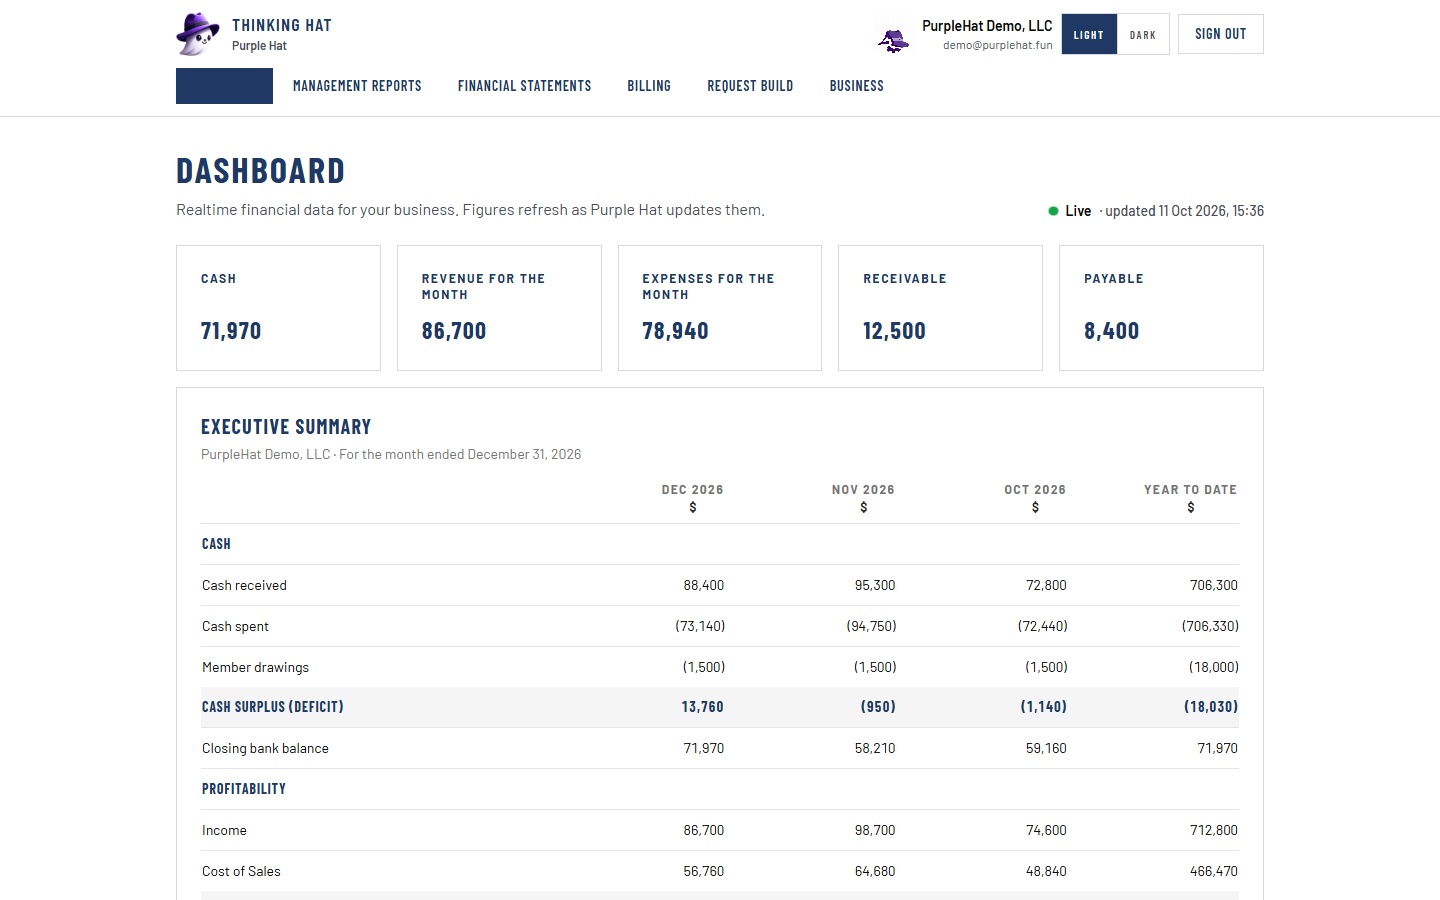
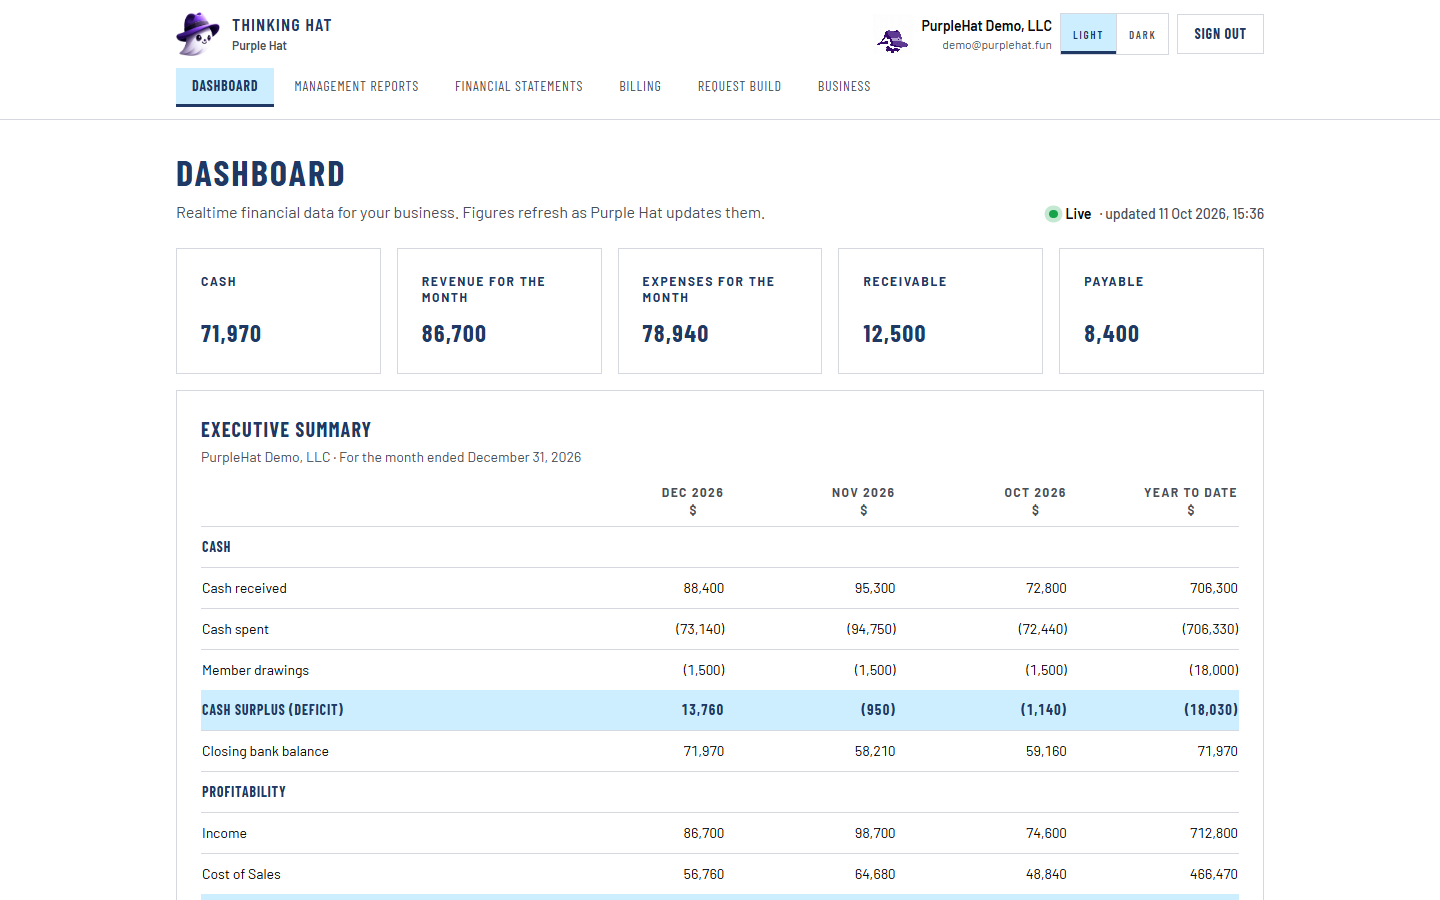
Add signed-in Ledger Navy screenshots and refresh marketing images
Capture the demo dashboard, reports, statements, and app pages in both themes, and replace the Featured Services images with the live Ledger Navy screens. PDF hashes now ignore timestamps and cross-reference offsets.

diff --git a/thinking-hat/server/src/pdfNormalize.js b/thinking-hat/server/src/pdfNormalize.js
@@ -4,21 +4,59 @@ function stripVolatile(text) {
   return text
     .replace(/\/CreationDate\s*\([^)]*\)/g, "/CreationDate (normalized)")
     .replace(/\/ModDate\s*\([^)]*\)/g, "/ModDate (normalized)")
+    .replace(/\(D:\d{14}(?:Z|[+\-]\d{2}'\d{2}')?\)/g, "(D:normalized)")
     .replace(/\/ID\s*\[[^\]]*\]/g, "/ID [normalized]")
-    .replace(/\/Length\s+\d+/g, "/Length 0");
+    .replace(/\/Length\s+\d+/g, "/Length 0")
+    .replace(/startxref\s+\d+/g, "startxref 0");
 }
 
-// Dates live in a compressed object stream, so a raw-byte replace still changes
-// once the clock ticks. Hash the inflated streams with those fields removed.
-export function normalizePdf(buffer) {
-  const raw = Buffer.from(buffer).toString("latin1");
-  const text = raw.replace(/stream\r?\n([\s\S]*?)\r?\nendstream/g, (full, body) => {
-    try {
-      const inflated = zlib.inflateSync(Buffer.from(body, "latin1")).toString("latin1");
-      return `stream\n${stripVolatile(inflated)}\nendstream`;
-    } catch {
-      return full;
+function streamAt(latin, from) {
+  let search = from;
+  while (search < latin.length) {
+    const at = latin.indexOf("stream", search);
+    if (at < 0) return null;
+    const before = at > 0 ? latin[at - 1] : "";
+    const after = latin.slice(at + 6, at + 8);
+    const eol = after.startsWith("\r\n") ? 2 : after.startsWith("\n") || after.startsWith("\r") ? 1 : 0;
+    const dictEnd = latin.lastIndexOf(">>", at);
+    const dictStart = dictEnd >= 0 ? latin.lastIndexOf("<<", dictEnd) : -1;
+    const dict = dictStart >= 0 ? latin.slice(dictStart, dictEnd + 2) : "";
+    const lengthMatch = /\/Length\s+(\d+)/.exec(dict);
+    if (/\s/.test(before) && eol && lengthMatch && dictEnd < at && dictEnd > dictStart) {
+      const dataStart = at + 6 + eol;
+      const dataEnd = dataStart + Number(lengthMatch[1]);
+      if (dataEnd <= latin.length && /^\r?\n?endstream/.test(latin.slice(dataEnd, dataEnd + 12))) {
+        return { at, dict, dataStart, dataEnd };
+      }
     }
-  });
-  return Buffer.from(stripVolatile(text), "latin1");
+    search = at + 6;
+  }
+  return null;
+}
+
+// Dates live in a compressed object stream. A shorter or longer compressed
+// timestamp also moves the cross-reference offsets, so read each stream by
+// its /Length, drop the xref stream, and hash the inflated text.
+export function normalizePdf(buffer) {
+  const raw = Buffer.from(buffer);
+  const latin = raw.toString("latin1");
+  let out = "";
+  let cursor = 0;
+  for (let found = streamAt(latin, 0); found; found = streamAt(latin, cursor)) {
+    const isXref = /\/Type\s*\/XRef/.test(found.dict);
+    let inflated = "xref";
+    if (!isXref) {
+      try {
+        inflated = zlib.inflateSync(raw.subarray(found.dataStart, found.dataEnd)).toString("latin1");
+      } catch {
+        inflated = raw.subarray(found.dataStart, found.dataEnd).toString("latin1");
+      }
+    }
+    out += latin.slice(cursor, found.at);
+    out += `stream\n${inflated}\nendstream`;
+    const end = latin.indexOf("endstream", found.dataEnd);
+    cursor = end < 0 ? found.dataEnd : end + "endstream".length;
+  }
+  out += latin.slice(cursor);
+  return Buffer.from(stripVolatile(out), "latin1");
 }

diff --git a/docs/ledger-navy/README.md b/docs/ledger-navy/README.md
@@ -2,7 +2,7 @@
 
 Light files sit in this folder. Dark files sit in `dark/`. Files named `*-dark-*` in this folder (dashboard, report, statement tabs, and the older home pair that this pass replaced) are the set from commit 74bb9ba, before the contrast fixes. This pass overwrote `home-light-1440.png` and `home-light-390.png` and added the files below.
 
-`PH_DEMO_PASSWORD` was unset, so signed-in app screenshots, the Featured services recapture, and the annual-statement pixel diff are not in this commit. The management report PDF page shots (`pdf-page-1.png`, `pdf-statement-3.png`) are still the earlier light Ledger Navy renders.
+Signed-in shots are from the local demo account on the December 2026 management report. Light files are in this folder. Dark files are in `dark/`. The management report PDF page shots (`pdf-page-1.png`, `pdf-statement-3.png`) are still the earlier light Ledger Navy renders. Annual-statement notes 1–14 are not separate screenshots. The saved US GAAP Demo template has no quarterly profit and loss section, so that section is not in these shots.
 
 ## This pass
 
@@ -19,3 +19,20 @@ Light files sit in this folder. Dark files sit in `dark/`. Files named `*-dark-*
 | `reset-password-light-1440.png`, `reset-password-light-390.png`, `dark/reset-password-dark-1440.png`, `dark/reset-password-dark-390.png` | Reset page without a token (invalid-link state; the submit button is the same shared Button) |
 
 Measured in the browser, not only from the pictures: calendar available, selected, and unavailable colours; today outline; Barlow Condensed on the day numbers; Sign in, Create account, and Send reset link fill and text in both themes; statement total band and text; compact statement radius `0`.
+
+## Signed-in app
+
+Each row has `*-light-1440.png` and `*-light-390.png` here, and `*-dark-1440.png` and `*-dark-390.png` in `dark/`. At 1440 the header shows the active tab. At 390 the open menu is the matching `nav-*-390.png` file.
+
+| File stem | Proves |
+|---|---|
+| `dashboard` | Dashboard with the original-colour logo, KPI cards, and the top of the executive summary |
+| `nav-dashboard`, `nav-reports`, `nav-statements`, `nav-billing`, `nav-request`, `nav-business` | Phone menu with that tab active (390 only) |
+| `insights` | Financial insights brief: receivables, payables, this month, and trends |
+| `reports`, `report-executive`, `report-pnl`, `report-balance`, `report-cash`, `report-ecommerce` | Management Reports for December 2026, including profit and loss, balance sheet, cash flows, and e-commerce |
+| `statements`, `afs-cover`, `afs-index`, `afs-auditor`, `afs-balance-sheets`, `afs-operations`, `afs-equity`, `afs-cash-flows` | Annual statements with the section menu. Statement body stays as published; only the menu chrome follows the theme |
+| `billing`, `request`, `business` | Billing, Request Build, and Business |
+
+## Featured services
+
+`images/app` was recaptured from the live Ledger Navy app in light mode. Desktop files are 2880×1800. Phone files are 780×1688. Each PNG has a matching WebP at the same pixel size: `dashboard-ads`, `dashboard-mix`, `dashboard-overview`, `report-charts`, `report-kpis`, `report-summary`, `statement-cash`, `statement-income`, `statement-position`, `mobile-aging`, `mobile-dashboard`, and `mobile-summary`. The homepage uses every pair except `dashboard-ads`.
